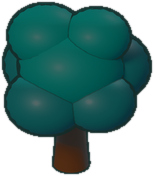
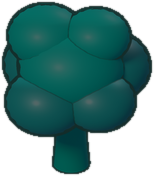
树干从棕色换成冷色：参考图整块棋盘一个暗暖色像素都没有
去掉地盘后景物放大了 11%，橙色树干跟着放大，匹配木地裁切的暖色占比从
1.18% 涨到 1.76%，参考图同一块是 0.00%。按色相分桶量整块棋盘：参考图
96% 落在 150-210 的青色区间，仅有的 2.4% 暖色全在 V 0.75-1.0（UI 图标），
一个暗暖色像素都没有；我们有 5.6% 的暗暖色、V 0.286，橡树精灵本身色相
0-30 占 5.38%。那就是树干和枝杈。

第一版照参考图树桩的像素取色（#064655, H 191）做成 H 190 / S 0.85，渲染
出来 H 195.9，而我们地面是 169.1——差 27 度，每棵橡树底下两条饱和青蓝
色的腿读起来就是蓝方。把参考图的树桩和它旁边的空地并排量才看出关键：
它的树桩是 H 172.3 对地面 169.0，三度，饱和是地面的 2.98 倍、明度 0.85。
它不是一个不同的颜色，是棋盘自己的颜色拧干变暗。

所以 bark 取树冠的色相 172（离 deepgreen 四度）、饱和 0.80、明度 0.49
（比棕色高六分之一：按棕色原样的明度渲染出来是地面的 0.68，比参考图的
0.85 更暗，暗到树冠像没东西撑着）。实测树干 H 175.8 / S 0.958 / V 0.275，
对地面 S x2.60、V x0.71。木地裁切暖色 1.76% -> 0.57%，剩下的 307 个像素
是探进裁切上沿的一个小兵头饰，不是景物。

范围同 D107/D108：只有草地的橡树和松树换色，_trunk 默认仍是 brown；松树
树干高 0.26 而裙摆从 0.18 起，本来就几乎不露（改前改后暖色都是 0.00%）。
建筑的门梁、宝箱、营地、柴枝保留 brown：人造物该有暖木色。

还不一样：树干色相离地面 6.7 度（参考图 3.3 度），明度是地面的 0.71
（参考图 0.85），树干在树冠下更像收窄的暗底座而不是一根分得清的树干。

精灵尺寸未变，atlas.json 未变。602 tests / 75 files 全绿。

Changed region(s): [[0.3377, 0.7102, 0.5974, 0.9943]]

diff --git a/tools/art3d/prim.py b/tools/art3d/prim.py
@@ -51,6 +51,27 @@ PAL = {
     # the terrain props (props.py): a colder blue-white for ice, and a second,
     # darker green so a tree's crown has two values and does not read as one blob
     'ice': '#9fd8e8', 'frost': '#dff2f7', 'deepgreen': '#2a6864',
+    # 'bark' is the meadow trees' trunk and boughs, and it exists because 'brown' (#6b4428,
+    # hue 25) is the ONE warm thing left on a finished board. Masked by hue over the seed-2
+    # board, 3.1% of our pixels sat in hue 0-30 at value 0.26 -- the trunks, and nothing else
+    # is both warm and dark. The reference (D:/new/ref IMG_3717) has no dark warm pixel at all:
+    # 96% of its board is hue 150-210 and its only warm 2.4% sits at value 0.75-1.0, which is
+    # its UI icons. Its own cut stump is COLD, and the measurement that matters is how far it sits
+    # from the ground it stands on, not what it is on its own: masked beside each other, the
+    # reference's stump is hue 172.3 against its open ground's 169.0 -- THREE DEGREES -- at 2.98x
+    # the ground's saturation and 0.85 of its value. It is not a different colour from the board. It
+    # is the board's own colour wrung out dark. A first cut of this put the bark at hue 190 off the
+    # reference stump's own #064655, which rendered at hue 195.9 against our ground's 169.1 -- 27
+    # degrees out -- and two saturated cyan legs under every oak read as the BLUE TEAM, which is the
+    # one thing a colour on this board may not do (STYLE.md). So the hue is the crown's, not the
+    # reference pixel's: 172, four degrees off 'deepgreen', at 0.80 saturation (well over the
+    # ground's 0.37). The value is a sixth OVER brown's, which is the second thing the side-by-side
+    # measurement says: the reference's stump is 0.85 of its ground and 0.78 of its canopy, and a
+    # trunk at brown's own value came out at 0.68 and 0.71 -- darker than the reference's, and dark
+    # enough that the crown looked like it was standing on nothing. 0.49 puts the rendered trunk at
+    # 0.76 of the ground and 0.79 of the crown. The buildings', the chest's and the camp's timber
+    # keep 'brown': those are made things and a warm plank is what says so. D109.
+    'bark': '#197d70',
     # 'shade' is the little disc a prop stands on (props.py _ground). It used to be 'moss', and a
     # flat UP-FACING disc under a 4.9-energy key is the one surface in the whole set that blows out:
     # moss at value 0.600 rendered near 0.95, and the tone pass (sprite.py) brought that back only to

diff --git a/tools/art3d/props.py b/tools/art3d/props.py
@@ -54,6 +54,10 @@ def _ground(r, mat='shade', z=0.022, scale=(1.0, 1.0, 1), loc=(0, 0, 0), seg=28)
 
 
 def _trunk(r0, r1, h, loc=(0, 0, 0), mat='brown'):
+    """The default stays 'brown' and the two MEADOW trees pass 'bark' instead (prim.py D109).
+    The scope is D107's and D108's: the snow and desert pieces stand on grounds no reference
+    frame has been measured on, and snowpine's trunk is 0.26 tall under a skirt that starts at
+    0.20, so almost none of it is on screen to be warm."""
     return lathe([(r0, 0), (r0 * 0.92, h * 0.18), (r1 * 1.06, h * 0.7), (r1, h), (0.0, h)], mat,
                  loc=loc, seg=20, name='trunk')
 
@@ -73,7 +77,7 @@ def _rockpile(slabs, mossy=()):
 def model_oak():
     """A broadleaf: a bare trunk under a crown built from three flattened balls, the back ones
     darker. One ball is a lollipop; three at different heights make a crown with a top to it."""
-    _trunk(0.11, 0.075, 0.52)
+    _trunk(0.11, 0.075, 0.52, mat='bark')
     for (bx, by, bz, r, mat) in ((-0.17, 0.14, 0.60, 0.29, 'deepgreen'),
                                  (0.19, 0.12, 0.66, 0.27, 'deepgreen'),
                                  (-0.09, -0.24, 0.57, 0.25, 'deepgreen'),
@@ -84,14 +88,14 @@ def model_oak():
         ball(r, mat, (bx, by, bz), scale=(1.0, 0.95, 0.78), name='leaf')
     # two boughs showing under the crown, so the trunk does not run straight into a ball
     for s in (1, -1):
-        rod(0.045, 0.26, 'brown', (s * 0.10, 0.02, 0.50), rot=(0, s * 0.8, 0), name='bough')
+        rod(0.045, 0.26, 'bark', (s * 0.10, 0.02, 0.50), rot=(0, s * 0.8, 0), name='bough')
     return 1.2
 
 
 def model_pine():
     """A conifer: three skirts stacked on a short trunk, each one clear of the one above it. The
     steps between skirts are the only thing that tells a pine from a green triangle at 60 px."""
-    _trunk(0.095, 0.07, 0.26)
+    _trunk(0.095, 0.07, 0.26, mat='bark')
     for (z, r, h, mat) in ((0.18, 0.40, 0.40, 'deepgreen'), (0.50, 0.32, 0.38, 'green'),
                            (0.78, 0.23, 0.38, 'green')):
         lathe([(r, 0), (r * 0.98, h * 0.08), (r * 0.55, h * 0.52), (0.0, h)], mat, loc=(0, 0, z),
